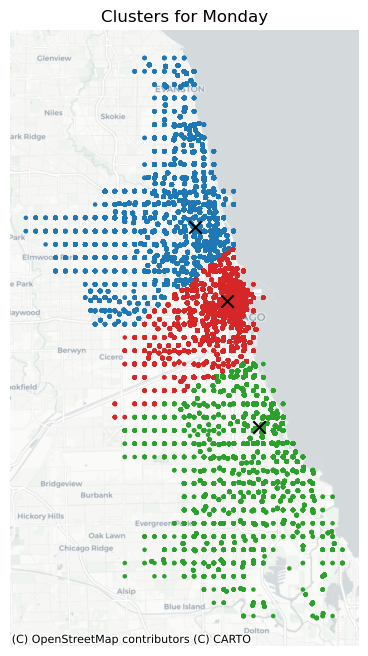
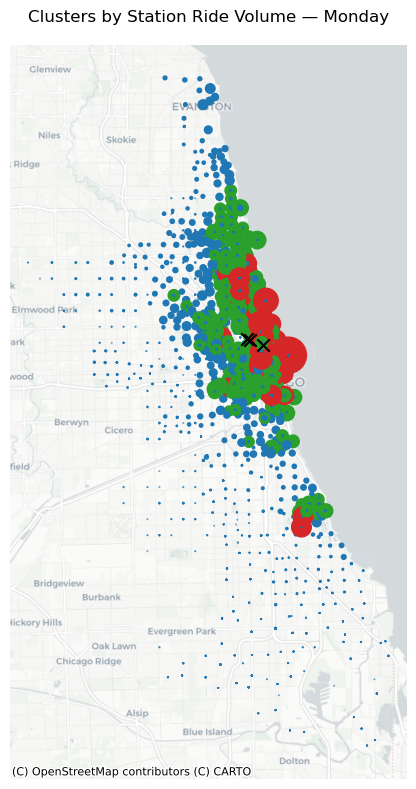
Adjust geospatial calculations

diff --git a/functions.py b/functions.py
@@ -143,25 +143,28 @@ def plot_stat_by_day(data, column, y_label, output_path, agg_func='mean'):
     plt.close()
 
 # K-means clustering for starting station - one day
-def cluster_one_day(day_df, n_clusters=3):
-    coords = day_df[["start_lat", "start_lng"]].to_numpy()
+def cluster_one_day_volume(day_df, n_clusters=3):
+    grouped = day_df.groupby(['start_station_name', 'start_lat', 'start_lng']) \
+                    .size().reset_index(name='ride_count')
+
+    coords = grouped[['start_lat', 'start_lng', 'ride_count']].to_numpy()
     kmeans = KMeans(n_clusters=n_clusters, n_init=10, random_state=42).fit(coords)
-    day_df = day_df.copy()
-    day_df["cluster"] = kmeans.labels_
-    return day_df, kmeans.cluster_centers_
+
+    grouped["cluster"] = kmeans.labels_
+    return grouped, kmeans.cluster_centers_
 
 # Run cluster_one_day() for all days of the week (in parallel)
-def parallel_cluster_all_days(df, n_clusters=3):
-    grouped = [df[df["day_of_week"] == day] for day in df["day_of_week"].unique()]
-    with Pool(processes=7) as pool:
-        results = pool.starmap(cluster_one_day, [(group, n_clusters) for group in grouped])
+def parallel_cluster_by_volume_all_days(df, n_clusters=3, processes=7):
+    grouped_days = [df[df["day_of_week"] == day] for day in df["day_of_week"].unique()]
+    with Pool(processes=processes) as pool:
+        results = pool.starmap(cluster_one_day_volume, [(day_df, n_clusters) for day_df in grouped_days])
     return results
 
 # Plot the clutsers on a real map
-def plot_clusters_with_map(day_df, centers, day_name, output_path):
+def plot_volume_clusters_with_map(clustered_df, centers, day_name, output_path):
     gdf = gpd.GeoDataFrame(
-        day_df,
-        geometry=gpd.points_from_xy(day_df["start_lng"], day_df["start_lat"]),
+        clustered_df,
+        geometry=gpd.points_from_xy(clustered_df["start_lng"], clustered_df["start_lat"]),
         crs="EPSG:4326"
     ).to_crs(epsg=3857)
 
@@ -170,13 +173,15 @@ def plot_clusters_with_map(day_df, centers, day_name, output_path):
         crs="EPSG:4326"
     ).to_crs(epsg=3857)
 
+    # Use the fixed color palette
     gdf["color"] = gdf["cluster"].map(CLUSTER_COLORS)
 
     fig, ax = plt.subplots(figsize=(10, 8))
-    gdf.plot(ax=ax, color=gdf["color"], markersize=5)
+    gdf.plot(ax=ax, color=gdf["color"], markersize=gdf["ride_count"] / 10)
     center_gdf.plot(ax=ax, color="black", marker="x", markersize=80)
     ctx.add_basemap(ax, source=ctx.providers.CartoDB.Positron)
-    ax.set_title(f"Clusters for {day_name}")
+    ax.set_title(f"Clusters by Station Ride Volume — {day_name}")
     plt.axis("off")
+    plt.tight_layout()
     plt.savefig(output_path, bbox_inches="tight")
     plt.close()

diff --git a/bike_rent.py b/bike_rent.py
@@ -47,18 +47,14 @@ def main():
 
 
     # Clustering
-    cluster_results = parallel_cluster_all_days(df_all, n_clusters=3)
-
-    unique_days = df_all["day_of_week"].unique()
-
     output_dir = "cluster_maps"
     os.makedirs(output_dir, exist_ok=True)
 
-    # --- VISUALIZATION ---
+    results = parallel_cluster_by_volume_all_days(df_all, n_clusters=3)
 
-    for (day_df, centers), day_name in zip(cluster_results, unique_days):
-        out_path = os.path.join(output_dir, f"clusters_{day_name}.png")
-        plot_clusters_with_map(day_df, centers, day_name, out_path)
+    for (day_df, centers), day in zip(results, df_all['day_of_week'].unique()):
+        output_path = f"cluster_maps/volume_cluster_{day}.png"
+        plot_volume_clusters_with_map(day_df, centers, day, output_path)
 
     print("Clusterisation for each day complete")
 
